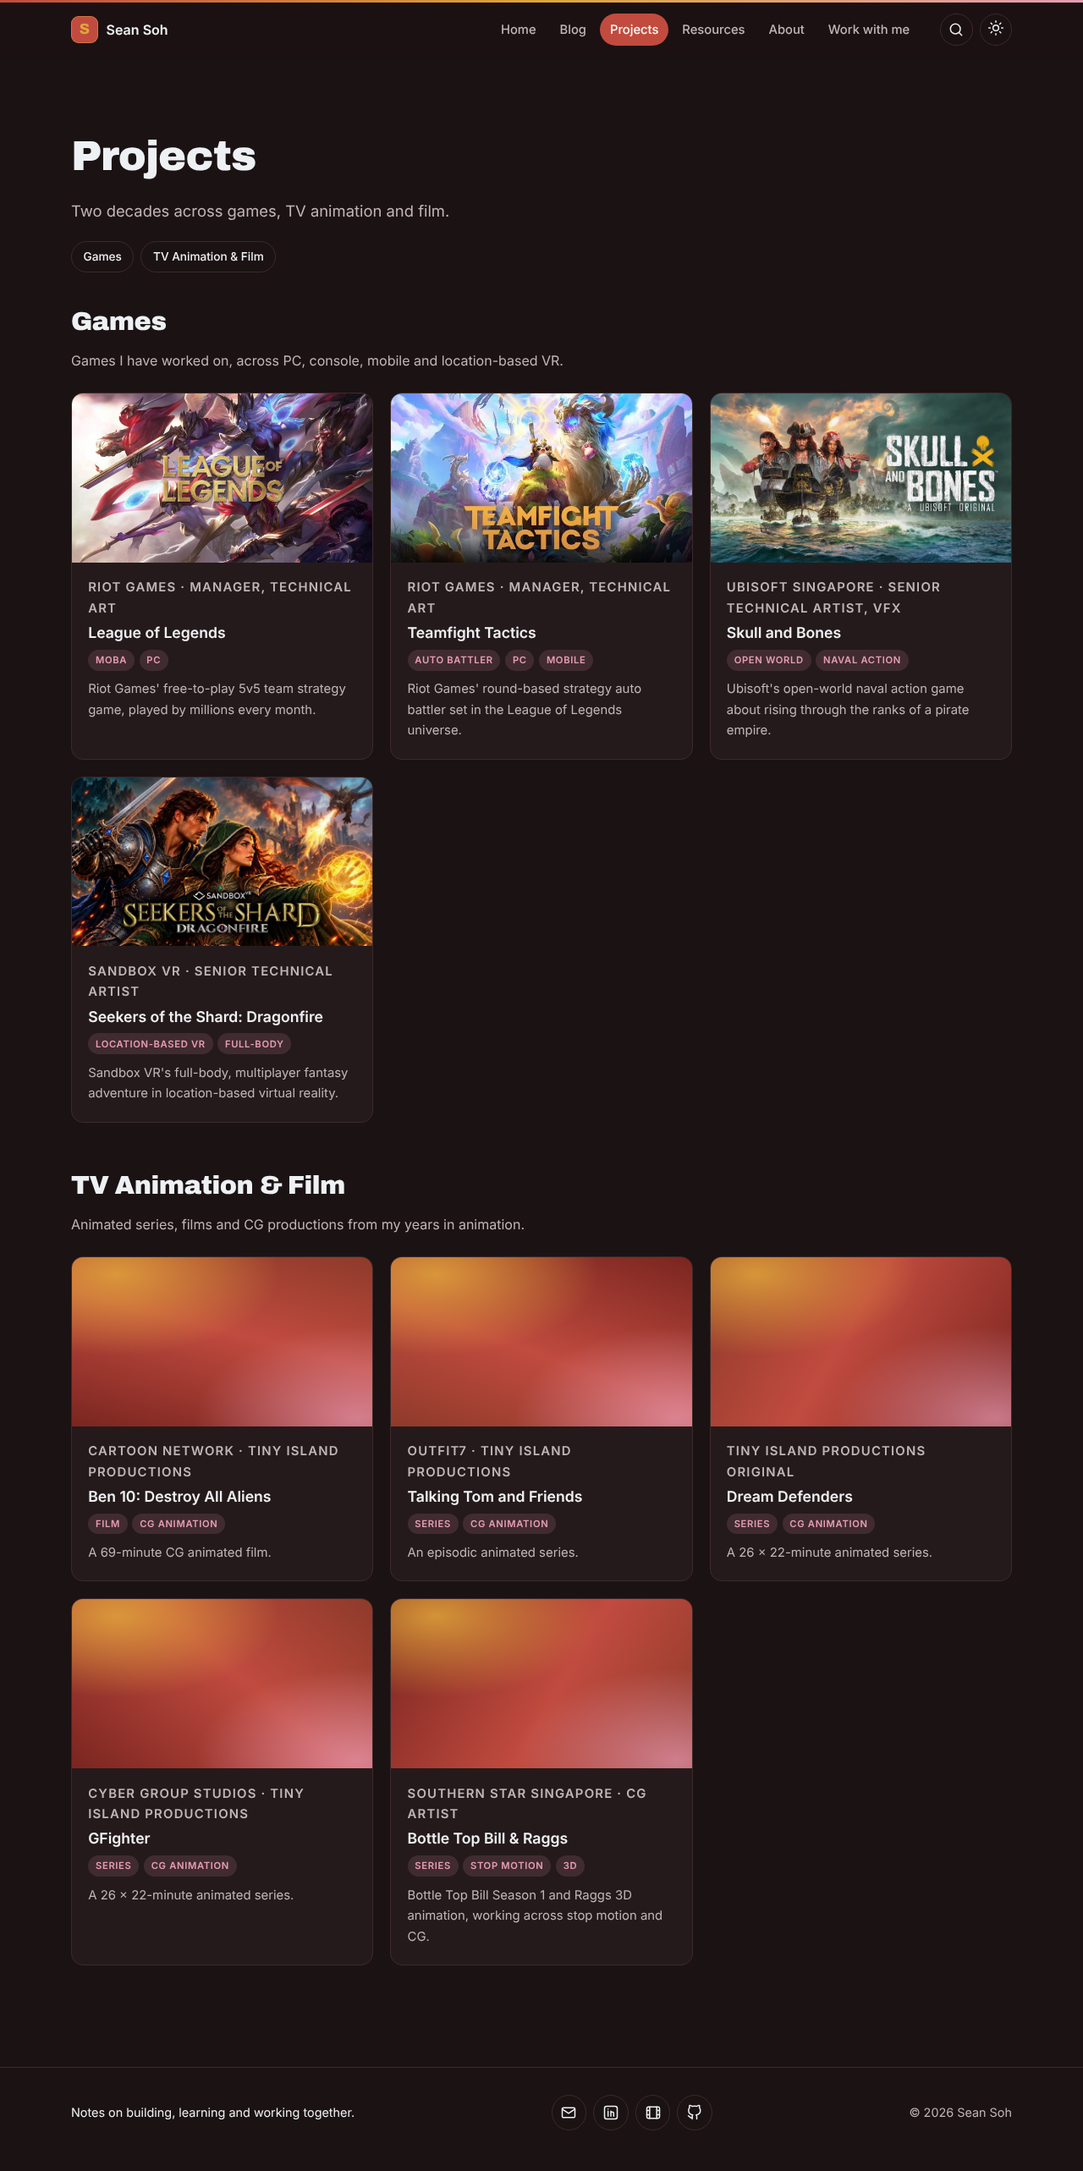
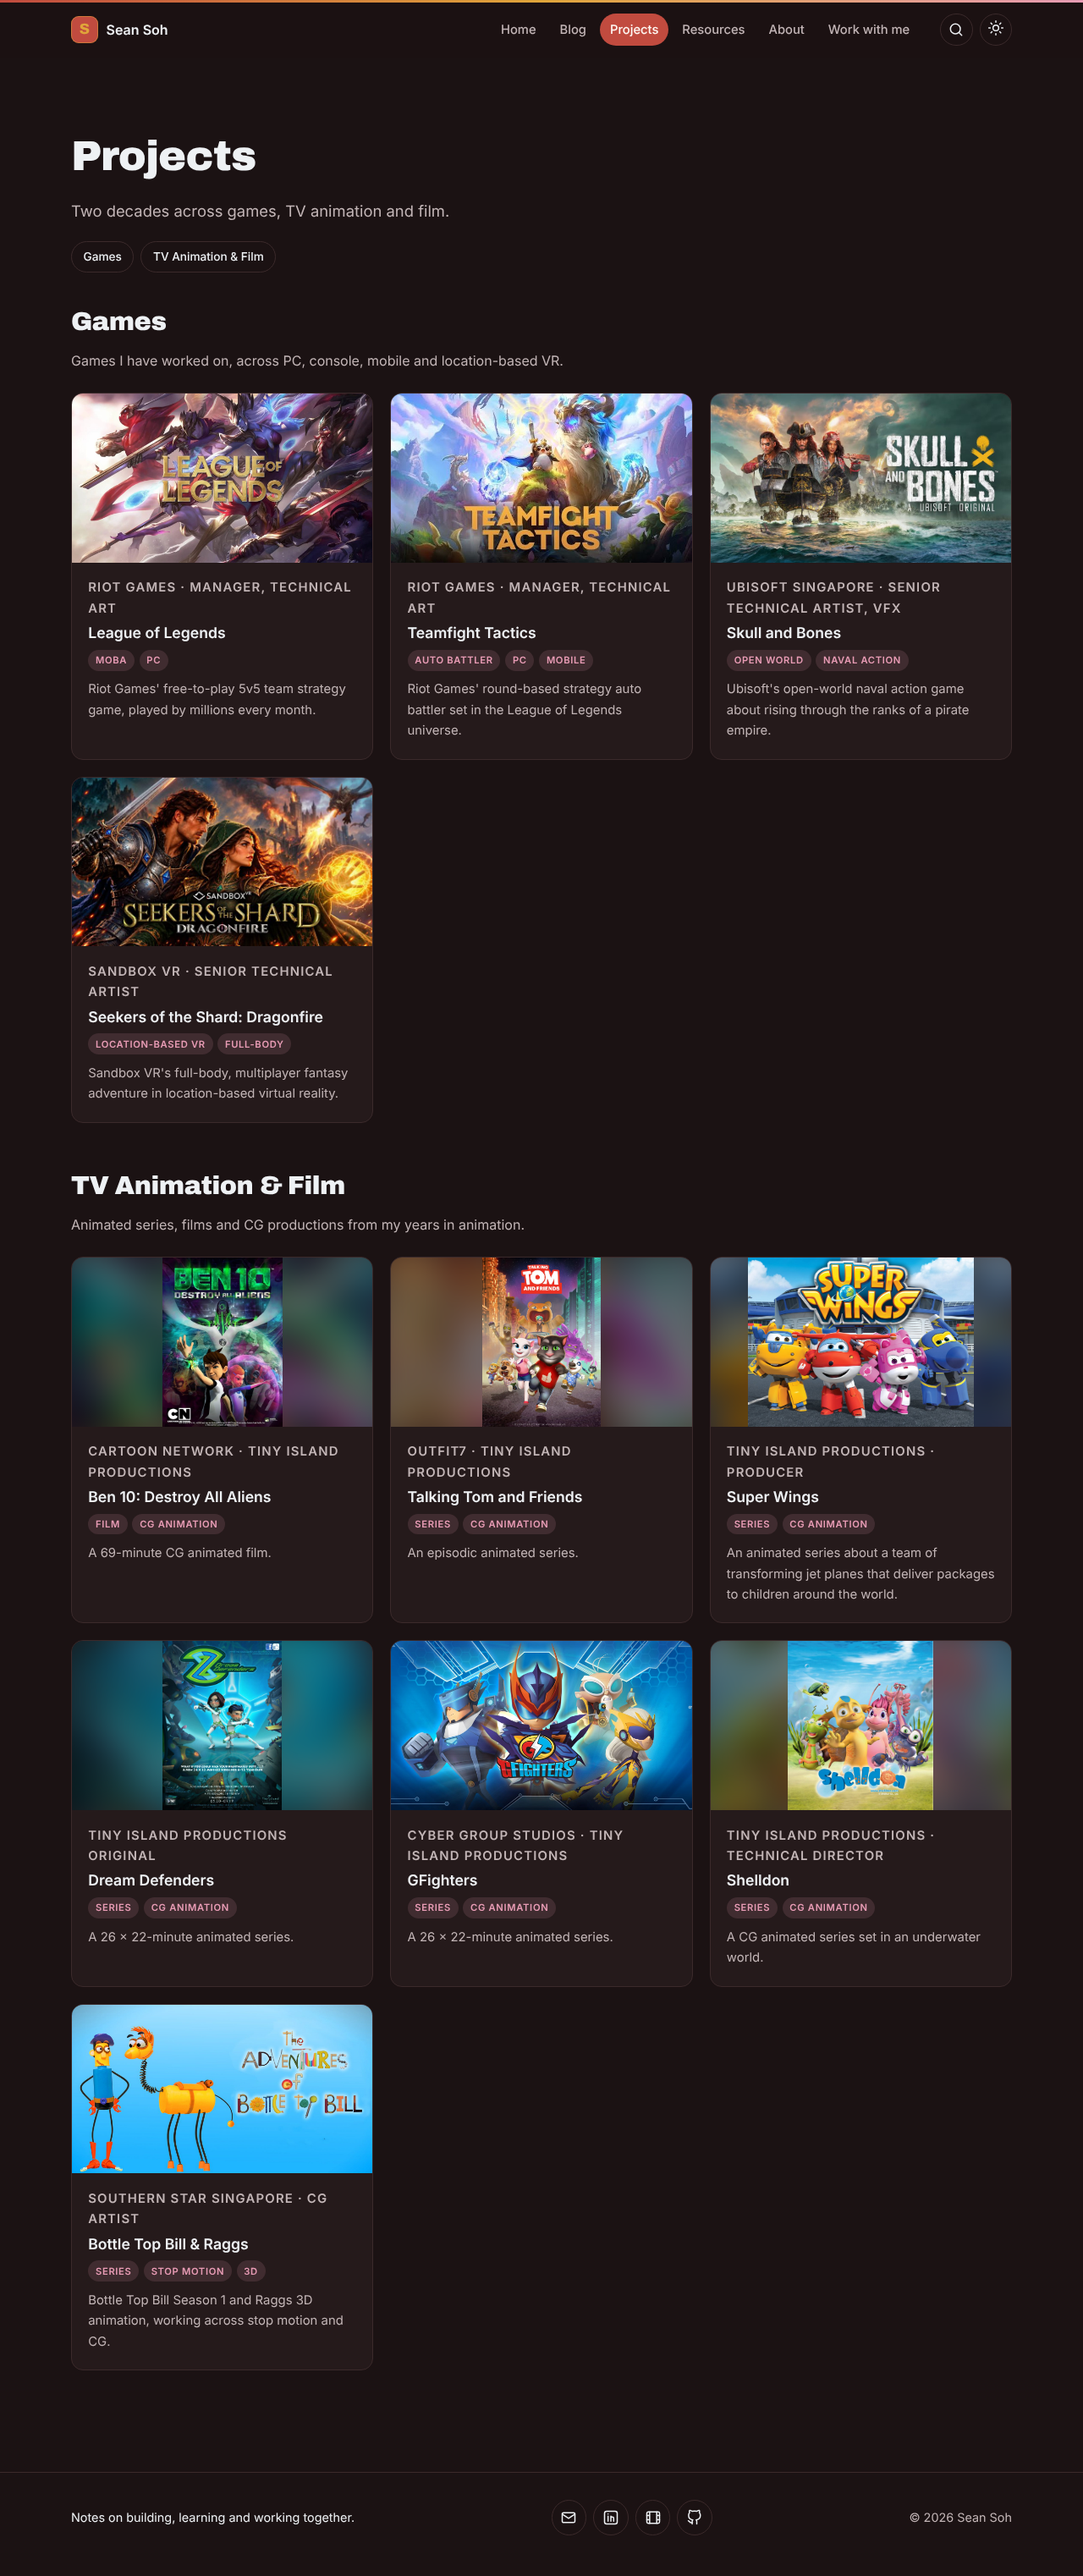
Add TV and film posters, Super Wings and Shelldon credits
Claude-Session: https://claude.ai/code/session_019aZhk6nqUmGebBMtB7amnR

diff --git a/_includes/cover.html b/_includes/cover.html
@@ -1,6 +1,13 @@
-{%- comment -%} Card cover: an image if the item has one, otherwise a generated gradient. {%- endcomment -%}
+{%- comment -%}
+  Card cover: an image if the item has one, otherwise a generated gradient.
+  With `poster: true` the whole image is shown (no cropping) over a blurred copy of itself,
+  so portrait posters fit the same 16:9 card as landscape key art.
+{%- endcomment -%}
 {%- assign item = include.item -%}
-<div class="cover{% unless item.image %} cover-gen{% endunless %}" style="--hue: {{ item.hue | default: 160 }}">
-  {%- if item.image -%}<img src="{{ item.image | relative_url }}" alt="{{ item.title }}" loading="lazy">
+<div class="cover{% unless item.image %} cover-gen{% endunless %}{% if item.poster %} cover-poster{% endif %}" style="--hue: {{ item.hue | default: 160 }}">
+  {%- if item.image and item.poster -%}
+    <img class="cover-blur" src="{{ item.image | relative_url }}" alt="" aria-hidden="true" loading="lazy">
+    <img class="cover-fit" src="{{ item.image | relative_url }}" alt="{{ item.title }}" loading="lazy">
+  {%- elsif item.image -%}<img src="{{ item.image | relative_url }}" alt="{{ item.title }}" loading="lazy">
   {%- endif -%}
 </div>

diff --git a/assets/style.css b/assets/style.css
@@ -325,3 +325,9 @@ p { margin: 0 0 1em; }
 .section-jump .chip { text-decoration: none; }
 .project-section { margin: 0 0 3.5rem; scroll-margin-top: 5rem; }
 .project-section > .muted { margin-bottom: 1.5rem; }
+
+/* Poster covers: whole poster visible, blurred fill behind */
+.cover-poster { position: relative; }
+.cover-poster .cover-blur { position: absolute; inset: 0; filter: blur(18px) brightness(.55) saturate(1.2); transform: scale(1.15); }
+.cover-poster .cover-fit { position: relative; object-fit: contain; }
+.project-hero.is-poster img { width: auto; max-width: 100%; max-height: 38rem; margin: 0 auto; }

diff --git a/_layouts/project.html b/_layouts/project.html
@@ -11,7 +11,7 @@ layout: default
   </header>
   {%- assign hero = page.hero | default: page.image -%}
   {%- if hero -%}
-  <figure class="project-hero"><img src="{{ hero | relative_url }}" alt="{{ page.title }} key art"></figure>
+  <figure class="project-hero{% if page.poster %} is-poster{% endif %}"><img src="{{ hero | relative_url }}" alt="{{ page.title }} key art"></figure>
   {%- else -%}
   {% include cover.html item=page %}
   {%- endif -%}

diff --git a/_projects/gfighters.md b/_projects/gfighters.md
@@ -1,5 +1,5 @@
 ---
-title: "GFighter"
+title: "GFighters"
 studio: Tiny Island Productions
 role: "Producer"
 period: "2011 – 2015"
@@ -7,15 +7,15 @@ client: "Cyber Group Studios"
 meta: "Cyber Group Studios · Tiny Island Productions"
 summary: "A 26 × 22-minute animated series."
 tags: [Series, CG animation]
-order: 14
+order: 15
 category: film
-hue: 40
-# image: /assets/images/projects/gfighter-cover.jpg   # add a still or poster here
+image: /assets/images/projects/gfighters-poster.jpg
+poster: true
 ---
 
 ## About the production
 
-GFighter is a 26 × 22-minute animated series for Cyber Group Studios, produced with Tiny Island Productions.
+GFighters is a 26 × 22-minute animated series for Cyber Group Studios, produced with Tiny Island Productions.
 
 ## My role
 

diff --git a/_projects/super-wings.md b/_projects/super-wings.md
@@ -1,0 +1,21 @@
+---
+title: "Super Wings"
+studio: Tiny Island Productions
+role: "Producer"
+period: "2011 – 2015"
+meta: "Tiny Island Productions · Producer"
+summary: "An animated series about a team of transforming jet planes that deliver packages to children around the world."
+tags: [Series, CG animation]
+order: 13
+category: film
+image: /assets/images/projects/super-wings-poster.jpg
+poster: true
+---
+
+## About the production
+
+Super Wings is a CG animated series about Jett and a team of transforming jet planes that deliver packages to children around the world.
+
+## My role
+
+I was Producer on Super Wings. As Producer I led the team to deliver smoothly, managed budget and resources, held quality to the agreed standards, and handled client-side negotiation.

diff --git a/_projects/shelldon.md b/_projects/shelldon.md
@@ -1,0 +1,20 @@
+---
+title: "Shelldon"
+studio: Tiny Island Productions
+role: "Technical Director"
+meta: "Tiny Island Productions · Technical Director"
+summary: "A CG animated series set in an underwater world."
+tags: [Series, CG animation]
+order: 16
+category: film
+image: /assets/images/projects/shelldon-poster.jpg
+poster: true
+---
+
+## About the production
+
+Shelldon is a CG animated series set in an underwater world, following Shelldon and his friends.
+
+## My role
+
+I was Technical Director on Shelldon. As Technical Director I was in charge of technical setup and troubleshooting, built a production pipeline that left more room for the creative process, established the in-house rigging system and coached the team on it, and led look and shading development.

diff --git a/_projects/dream-defenders.md b/_projects/dream-defenders.md
@@ -6,10 +6,10 @@ period: "2011 – 2015"
 meta: "Tiny Island Productions original"
 summary: "A 26 × 22-minute animated series."
 tags: [Series, CG animation]
-order: 13
+order: 14
 category: film
-hue: 300
-# image: /assets/images/projects/dream-defenders-cover.jpg   # add a still or poster here
+image: /assets/images/projects/dream-defenders-poster.jpg
+poster: true
 ---
 
 ## About the production

diff --git a/_projects/ben-10-destroy-all-aliens.md b/_projects/ben-10-destroy-all-aliens.md
@@ -9,8 +9,8 @@ summary: "A 69-minute CG animated film."
 tags: [Film, CG animation]
 order: 11
 category: film
-hue: 15
-# image: /assets/images/projects/ben-10-destroy-all-aliens-cover.jpg   # add a still or poster here
+image: /assets/images/projects/ben-10-destroy-all-aliens-poster.jpg
+poster: true
 ---
 
 ## About the production

diff --git a/_projects/talking-tom-and-friends.md b/_projects/talking-tom-and-friends.md
@@ -9,8 +9,8 @@ summary: "An episodic animated series."
 tags: [Series, CG animation]
 order: 12
 category: film
-hue: 200
-# image: /assets/images/projects/talking-tom-and-friends-cover.jpg   # add a still or poster here
+image: /assets/images/projects/talking-tom-and-friends-poster.jpg
+poster: true
 ---
 
 ## About the production

diff --git a/_projects/bottle-top-bill-and-raggs.md b/_projects/bottle-top-bill-and-raggs.md
@@ -8,7 +8,8 @@ summary: "Bottle Top Bill Season 1 and Raggs 3D animation, working across stop m
 tags: [Series, Stop motion, 3D]
 order: 20
 category: film
-hue: 120
+image: /assets/images/projects/bottle-top-bill-and-raggs-poster.jpg
+poster: true
 ---
 
 ## About the production
